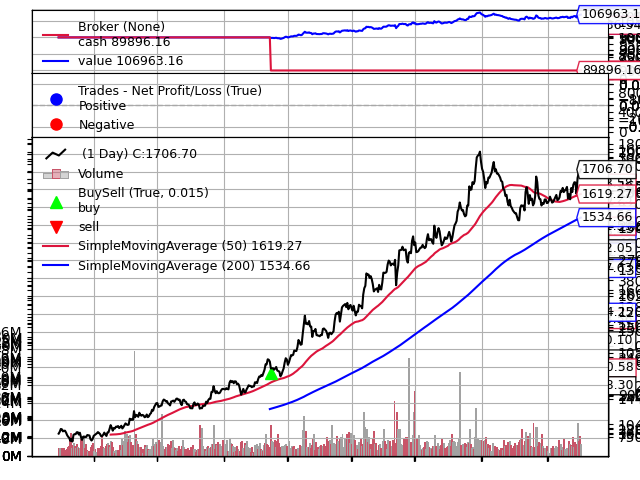
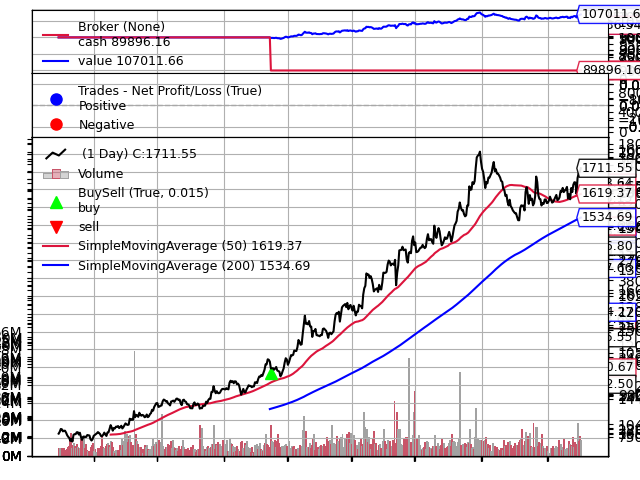
feat(backtest): enhance strategy tracking and reporting
Added tracking of individual symbol profits in the backtest function, allowing for separate displays of profitable and loss-making symbols. Modified `MovingAverageCrossoverStrategy` to accept parameters and extended logging to include signals within a specified period. Removed redundant functions from `tradesignals.py` and integrated new strategy imports, improving code organization and functionality. Updated various image files to reflect recent changes in backtesting results.

diff --git a/tradesignals.py b/tradesignals.py
@@ -1,71 +1,61 @@
-import yfinance as yf
-import pandas as pd
 import backtrader as bt
-from datetime import datetime, timedelta
+import yfinance as yf
+import datetime
+import matplotlib
 
+from tradingstrategies.KNNMovingAverageCrossoverStrategy import KNNMovingAverageCrossoverStrategy
+from tradingstrategies.MeanReversionStrategy import MeanReversionStrategy
+from tradingstrategies.MovingAverageCrossoverStrategy import MovingAverageCrossoverStrategy
+matplotlib.use("Agg")  # Use Agg backend for non-GUI environments
+import matplotlib.pyplot as plt
+
+# Download Historical Data from Yahoo Finance
+def get_data(symbol, period="2y", interval="1d"):
+    data = yf.download(symbol, period=period, interval=interval, multi_level_index=False)
+    data = data.rename(columns={
+        "Open": "open",
+        "High": "high",
+        "Low": "low",
+        "Close": "close",
+        "Volume": "volume"
+    })
+    # data.columns = data.columns.droplevel(0) # Drop the first level (Ticker Names)
+    return data
+
+# Backtest Function
+def backtest(symbol):
+    cerebro = bt.Cerebro()
+    cerebro.addstrategy(MovingAverageCrossoverStrategy, chk_last_weeks=1, symbol=symbol)
+
+    # Load Data
+    df = get_data(symbol)
+    data = bt.feeds.PandasData(dataname=df)
+
+    # Add data to Cerebro
+    cerebro.adddata(data)
+    cerebro.broker.set_cash(100000)  # Set initial capital
+    cerebro.broker.setcommission(commission=0.001)  # 0.1% commission
+    cerebro.addsizer(bt.sizers.FixedSize, stake=10)  # Number of shares per trade
+
+    cerebro.run()
+
+    # Save the plot as an image file instead of displaying it
+    fig = cerebro.plot()[0][0]
+    fig.savefig(f"backtest_images/backtest_plot_{symbol}.png")  # Save as PNG file
+
+def main(filepath):
+    tickers = load_tickers(filepath)
+    for symbol in tickers:
+        backtest(symbol)
+    
+    
+    
 # Load tickers from a file
 def load_tickers(file_path):
     with open(file_path, "r") as file:
         tickers = [line.strip() for line in file.readlines()]
     return tickers
 
-# Fetch latest stock data from Yahoo Finance
-def get_stock_data(ticker, period="6mo", interval="1d"):
-    try:
-        df = yf.download(ticker, period=period, interval=interval, multi_level_index=False)
-        if not df.empty:
-            df = df[['Open', 'High', 'Low', 'Close', 'Volume']]  # Ensure required columns
-        return df if not df.empty else None
-    except Exception as e:
-        print(f"Error fetching data for {ticker}: {e}")
-        return None
-
-# Backtrader Strategy for Mean Reversion
-class MeanReversionStrategy(bt.Strategy):
-    params = (
-        ("boll_period", 20),
-        ("rsi_period", 14),
-        ("rsi_lower", 30),
-        ("rsi_upper", 70),
-    )
-    def __init__(self):
-        self.bb = bt.indicators.BollingerBands(period=20)  # Bollinger Bands
-        self.rsi = bt.indicators.RSI(period=14)  # RSI Indicator
-        self.trade_signals = {}  # Dictionary to track recent buy/sell signals
-
-    def next(self):
-        current_date = self.datas[0].datetime.date(0)
-        one_week_ago = datetime.now().date() - timedelta(days=7)
-        if self.position:
-            # Exit conditions: Price returns to the mean (SMA20)
-            if self.data.close[0] > self.bb.lines.mid[0]:
-                self.close()
-                if(one_week_ago <= current_date):
-                    print(f"{self.data._name} :- SELL: {self.data.datetime.date(0)} | Price: {self.data.close[0]}")
-
-        else:
-            # Buy when price touches lower Bollinger Band & RSI < 30
-            if self.data.close[0] <= self.bb.lines.bot[0] and self.rsi[0] < self.params.rsi_lower:
-                self.buy()
-                if(one_week_ago <= current_date):
-                    print(f"{self.data._name} :- BUY: {self.data.datetime.date(0)} | Price: {self.data.close[0]}")
-
-# Run Backtrader Engine
-def run_backtest(ticker, df):
-    cerebro = bt.Cerebro()
-    cerebro.addstrategy(MeanReversionStrategy)
-    data_feed = bt.feeds.PandasData(dataname=df, name=ticker)
-    cerebro.adddata(data_feed)
-    cerebro.run()
-
-# Main Function
-def main(ticker_file):
-    tickers = load_tickers(ticker_file)
-    for ticker in tickers:
-        df = get_stock_data(ticker)
-        if df is not None:
-            run_backtest(ticker, df)
-
-# Run the script (Ensure 'tickers.txt' file exists with stock symbols)
+# Run Backtest for Reliance Industries (NSE)
 if __name__ == "__main__":
     main("tickers.txt")

diff --git a/tradingstrategies/BaseStrategy.py b/tradingstrategies/BaseStrategy.py
@@ -1,10 +1,42 @@
 import backtrader as bt
+import datetime as dt
 
 class BaseStrategy(bt.Strategy):
     def __init__(self, *args, **kwargs):
-        pass
+        self.chk_last_weeks = kwargs.get("chk_last_weeks", 999)
+        self.symbol = kwargs.get("symbol", "TCS.NS")
+        # List to store signals as tuples: (date, signal type, price)
+        self.signals = []
     
     def log(self, txt):
         dt = self.datas[0].datetime.date(0)
         print(f"{dt} {txt}")
-    # ...common methods can be added here...
+        
+    def close(self, data=None, size=None, **kwargs):  
+        # Get the current bar's date (converted to a Python date)
+        current_date = self.data.datetime.date(0)      
+        self.signals.append((current_date, 'SELL', self.data.close[0]))
+        return super().close(data, size, **kwargs)
+    
+    def buy(self, data=None, size=None, price=None, plimit=None, exectype=None, 
+            valid=None, tradeid=0, oco=None, trailamount=None, trailpercent=None, 
+            parent=None, transmit=True, **kwargs):
+        # Get the current bar's date (converted to a Python date)
+        current_date = self.data.datetime.date(0)
+        self.signals.append((current_date, 'BUY', self.data.close[0]))
+        return super().buy(data, size, price, plimit, exectype, valid, tradeid, oco, trailamount, trailpercent, parent, transmit, **kwargs)
+    
+    def stop(self):
+        # When the strategy ends, determine the last date in the data feed
+        last_date = self.data.datetime.date(0)
+        # Define the cutoff date as one week before the last date
+        cutoff_date = last_date - dt.timedelta(weeks=self.chk_last_weeks)
+        if self.signals:            
+            last_signals = [signal for signal in self.signals if signal[0] >= cutoff_date]
+            if last_signals:
+                print(f"@@@@@@@  {self.symbol} @@@@@@@@@@@@@@@@@@@@@@@@@@@@@@@@@@@@@@@@@@@@@@@")
+                print(f"\nSignals in the last {self.chk_last_weeks} week:")
+                for signal in last_signals:
+                    signal_date, signal_type, price = signal
+                    print(f"Date: {signal_date}, Signal: {signal_type}, Price: {price}")
+        

diff --git a/back_trade.py b/back_trade.py
@@ -9,6 +9,7 @@ from tradingstrategies.MovingAverageCrossoverStrategy import MovingAverageCrosso
 matplotlib.use("Agg")  # Use Agg backend for non-GUI environments
 import matplotlib.pyplot as plt
 
+profit = {}
 # Download Historical Data from Yahoo Finance
 def get_data(symbol, period="2y", interval="1d"):
     data = yf.download(symbol, period=period, interval=interval, multi_level_index=False)
@@ -25,7 +26,7 @@ def get_data(symbol, period="2y", interval="1d"):
 # Backtest Function
 def backtest(symbol):
     cerebro = bt.Cerebro()
-    cerebro.addstrategy(MovingAverageCrossoverStrategy, 500)
+    cerebro.addstrategy(MovingAverageCrossoverStrategy, chk_last_weeks=999, symbol=symbol)
 
     # Load Data
     df = get_data(symbol)
@@ -37,9 +38,12 @@ def backtest(symbol):
     cerebro.broker.setcommission(commission=0.001)  # 0.1% commission
     cerebro.addsizer(bt.sizers.FixedSize, stake=10)  # Number of shares per trade
 
-    print(f"Starting Portfolio Value: {cerebro.broker.getvalue():.2f}")
+    starting_capital = cerebro.broker.getvalue()
+    print(f"Starting Portfolio Value: {starting_capital:.2f}")
     cerebro.run()
-    print(f"Final Portfolio Value: {cerebro.broker.getvalue():.2f}")
+    ending_capital = cerebro.broker.getvalue()
+    print(f"Final Portfolio Value: {ending_capital:.2f}")
+    profit[symbol] = ending_capital - starting_capital
 
     # Save the plot as an image file instead of displaying it
     fig = cerebro.plot()[0][0]
@@ -48,8 +52,18 @@ def backtest(symbol):
 def main(filepath):
     tickers = load_tickers(filepath)
     for symbol in tickers:
-        print(f"@@@@@  {symbol} @@@@@@@@@@@@@@@@@@@@@@@@@@@@@@@@@@@@@@@@@@@@@@@")
         backtest(symbol)
+        
+    print("+++++++++ profitable symbols ++++++++++++++")
+    for key, value in profit.items():
+        if value > 0:
+            print(key, value)
+    
+    print("------- loss making symbols ---------")
+    for key, value in profit.items():
+        if value < 0:
+            print(key, value)
+    
     
 # Load tickers from a file
 def load_tickers(file_path):

diff --git a/tradingstrategies/MeanReversionStrategy.py b/tradingstrategies/MeanReversionStrategy.py
@@ -10,7 +10,8 @@ class MeanReversionStrategy(BaseStrategy):  # changed inheritance
         ("rsi_upper", 70),
     )
 
-    def __init__(self):
+    def __init__(self, *args, **kwargs):
+        super().__init__(*args, **kwargs)
         # Bollinger Bands
         self.bb = bt.indicators.BollingerBands(period=self.params.boll_period)
         # RSI Indicator
@@ -21,10 +22,8 @@ class MeanReversionStrategy(BaseStrategy):  # changed inheritance
             # Exit conditions: Price returns to the mean (SMA20)
             if self.data.close[0] > self.bb.lines.mid[0]:
                 self.close()
-                self.log(f"SELL: Price: {self.data.close[0]}")
 
         else:
             # Buy when price touches lower Bollinger Band & RSI < 30
             if self.data.close[0] <= self.bb.lines.bot[0] and self.rsi[0] < self.params.rsi_lower:
                 self.buy()
-                self.log(f"BUY: Price: {self.data.close[0]}")

diff --git a/tradingstrategies/MovingAverageCrossoverStrategy.py b/tradingstrategies/MovingAverageCrossoverStrategy.py
@@ -12,15 +12,14 @@ class MovingAverageCrossoverStrategy(BaseStrategy):  # changed inheritance
         # Short and Long Moving Averages
         self.sma_short = bt.indicators.SimpleMovingAverage(period=self.params.short_period)
         self.sma_long = bt.indicators.SimpleMovingAverage(period=self.params.long_period)
+        
 
     def next(self):
         if self.position:
             # Exit condition: Short MA crosses below Long MA
             if self.sma_short[0] < self.sma_long[0]:
                 self.close()
-                self.log(f"SELL: {self.data.datetime.date(0)} | Price: {self.data.close[0]}")
         else:
             # Buy condition: Short MA crosses above Long MA
             if self.sma_short[0] > self.sma_long[0]:
                 self.buy()
-                self.log(f"BUY: {self.data.datetime.date(0)} | Price: {self.data.close[0]}")
